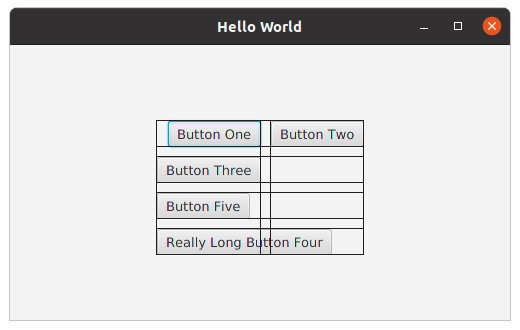
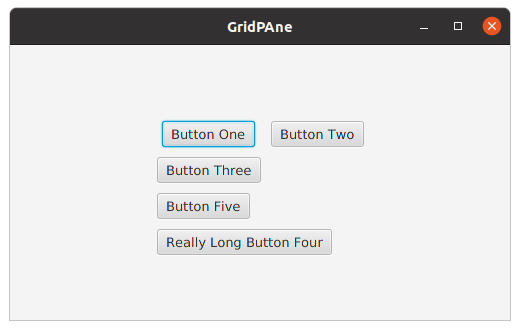
Layouts

diff --git a/Layouts/HBoxLayout/src/sample/Main.java b/Layouts/HBoxLayout/src/sample/Main.java
@@ -9,9 +9,9 @@ import javafx.stage.Stage;
 public class Main extends Application {
 
     @Override
-    public void start(Stage primaryStage) throws Exception{
+    public void start(Stage primaryStage) throws Exception {
         Parent root = FXMLLoader.load(getClass().getResource("sample.fxml"));
-        primaryStage.setTitle("Hello World");
+        primaryStage.setTitle("HBox");
         primaryStage.setScene(new Scene(root, 500, 275));
         primaryStage.show();
     }

diff --git a/Layouts/GridPane/src/sample/Main.java b/Layouts/GridPane/src/sample/Main.java
@@ -11,7 +11,7 @@ public class Main extends Application {
     @Override
     public void start(Stage primaryStage) throws Exception {
         Parent root = FXMLLoader.load(getClass().getResource("sample.fxml"));
-        primaryStage.setTitle("Hello World");
+        primaryStage.setTitle("GridPAne");
         primaryStage.setScene(new Scene(root, 500, 275));
         primaryStage.show();
     }

diff --git a/Layouts/HBoxLayout/README.md b/Layouts/HBoxLayout/README.md
@@ -1,0 +1,1 @@
+<p align="center"><img src="HBox.png"></p>
